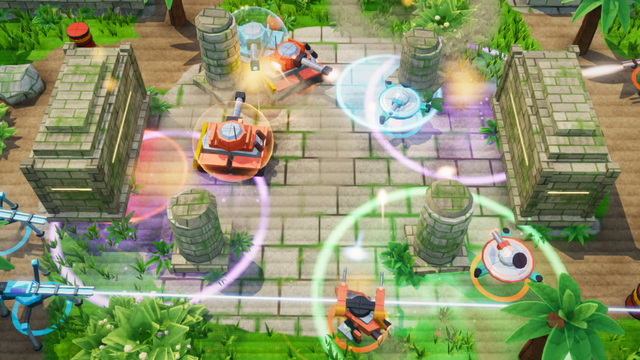
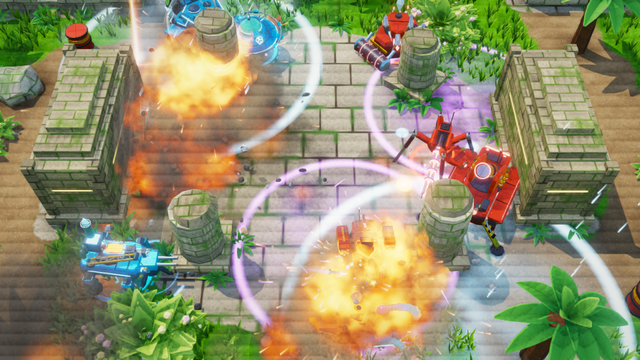
[feat/dau-truong-thep] Drop 6: bản đồ riêng cho Thủ nhà và đợt nâng chất hình, hiệu ứng, âm thanh; rev 20261114f
- Thủ nhà chơi trên hai bố cục riêng (Lũy Thép, Hẻm Chéo) với trụ chính giữa sân thành
- Cỗ máy, hiệu ứng, trụ và âm thanh làm lại; camera gần hơn một chút để cỗ máy to hơn trên màn hình
- Ảnh thẻ hub chụp lại từ bản mới

Test: sim-test 402/402, netstate 46/46, play.js ALL PASS, audio.js ALL PASS, online-test 56/56, lobby-test 48/48, ui-shots 658/658

diff --git a/games/dau-truong-thep/tools/ui-shots.js b/games/dau-truong-thep/tools/ui-shots.js
@@ -30,7 +30,7 @@ function overflowReport() {
   const roots = [document.getElementById('ui'), document.getElementById('touch')].filter(Boolean);
   for (const r of roots) {
     for (const n of r.querySelectorAll('*')) {
-      if (!(n instanceof HTMLElement) || n.classList.contains('fn') || n.closest('.np, .pl') || n.parentElement.classList.contains('vig')) continue;
+      if (!(n instanceof HTMLElement) || n.classList.contains('fn') || n.closest('.np, .pl, .twb') || n.parentElement.classList.contains('vig')) continue;
       const cs = getComputedStyle(n);
       if (cs.display === 'none' || cs.visibility === 'hidden' || +cs.opacity === 0) continue;
       let hid = false;
@@ -731,7 +731,7 @@ async function shot(page, errs, tag, expectFn, settle, skipOverflow) {
           kills: document.querySelector('#ui [data-r="k0"]').textContent + ':' + document.querySelector('#ui [data-r="k1"]').textContent,
         }));
         check(T('hud-nha') + ': top bar has 3 pips per team (4 small + 2 big), clock, tower score 0:0, mission from MODES.nha, 10 portrait cards', r.pips === 6 && r.mains === 2 && r.subs === 4 && /^[78]:\d\d$/.test(r.clock) && r.kills === '0:0' && r.mission === MODES.nha.mission && r.cols === 10 && r.bars === 6, JSON.stringify(r));
-        check(T('hud-nha') + ': minimap title shows layout and theme', /^Đền Rừng · Rừng mưa$/.test(r.mm), r.mm);
+        check(T('hud-nha') + ': minimap title shows layout and theme', /^Lũy Thép · Rừng mưa$/.test(r.mm), r.mm);
         const info = await tw.info();
         check(T('hud-nha') + ': at the start every sub is up at 100%, both mains are locked with a visible lock', [...ID.mySub, ...ID.foeSub].every((i) => info[i].state === 'up' && info[i].hp === '100%' && info[i].lock === 'none') && [ID.myMain, ID.foeMain].every((i) => info[i].state === 'locked' && info[i].lock !== 'none' && info[i].hp === '100%'), JSON.stringify(info));
       }, 700);

diff --git a/games/dau-truong-thep/index.html b/games/dau-truong-thep/index.html
@@ -20,13 +20,13 @@ body.in-match a.hub { display: none; }
 #boot-msg { font: 700 13px system-ui, sans-serif; letter-spacing: .18em; text-transform: uppercase; color: #9fb0bd; }
 #fatal { display: none; position: fixed; left: 0; right: 0; bottom: 0; z-index: 60; background: #4a1010; color: #ffd9d0; font: 13px/1.5 ui-monospace, Consolas, monospace; padding: 14px 18px; white-space: pre-wrap; max-height: 45vh; overflow: auto; }
 </style>
-<link rel="stylesheet" href="css/ui.css?v=20261114e">
+<link rel="stylesheet" href="css/ui.css?v=20261114f">
 </head>
 <body>
 <canvas id="view" tabindex="0"></canvas>
 <a class="hub" href="../../index.html">‹ Hub</a>
 <div id="boot"><div class="mk">ĐẤU TRƯỜNG THÉP</div><div class="bar"><i></i></div><div id="boot-msg">Khởi động</div></div>
 <div id="fatal"></div>
-<script type="module" src="js/main.js?v=20261114e"></script>
+<script type="module" src="js/main.js?v=20261114f"></script>
 </body>
 </html>

diff --git a/games/dau-truong-thep/js/main.js b/games/dau-truong-thep/js/main.js
@@ -23,7 +23,7 @@ const QUALITY = {
   medium: { name: 'medium', scale: 0.85, dpr: 1.5, shadow: 2048, tex: 1024, foliage: 0.65, particles: 800,  lights: 2, ao: true,  bloom: true, bloomLevels: 5, bloomGain: 0.75, fxaa: true },
   high:   { name: 'high',   scale: 1,    dpr: 2,   shadow: 4096, tex: 2048, foliage: 1,    particles: 1400, lights: 3, ao: true,  bloom: true, bloomLevels: 6, bloomGain: 0.85, fxaa: true },
 };
-const CAM = { fov: 32, pitch: 57 * Math.PI / 180, width: 39, minDepth: 19 };
+const CAM = { fov: 32, pitch: 57 * Math.PI / 180, width: 36, minDepth: 17.5 };
 
 const errors = (window.__errors = []);
 const fail = (tag, err) => { const msg = `[${tag}] ${err && err.stack ? err.stack : err}`; if (errors.length < 50) errors.push(msg); console.error(msg); };

diff --git a/data/games.js b/data/games.js
@@ -982,7 +982,7 @@ window.HUB_GAMES = [
     thumbnail: "assets/thumbnails/dau-truong-thep.png",
     // three.js r160, không asset: xem games/dau-truong-thep/README.md. Kiểm: node games/dau-truong-thep/tools/sim-test.mjs && node games/dau-truong-thep/tools/play.js
     path: "games/dau-truong-thep/index.html",
-    rev: "20261114e",
+    rev: "20261114f",
     status: "available",
     tags: ["Bắn súng", "Đấu đội 5v5", "Săn trùm"]
   },
